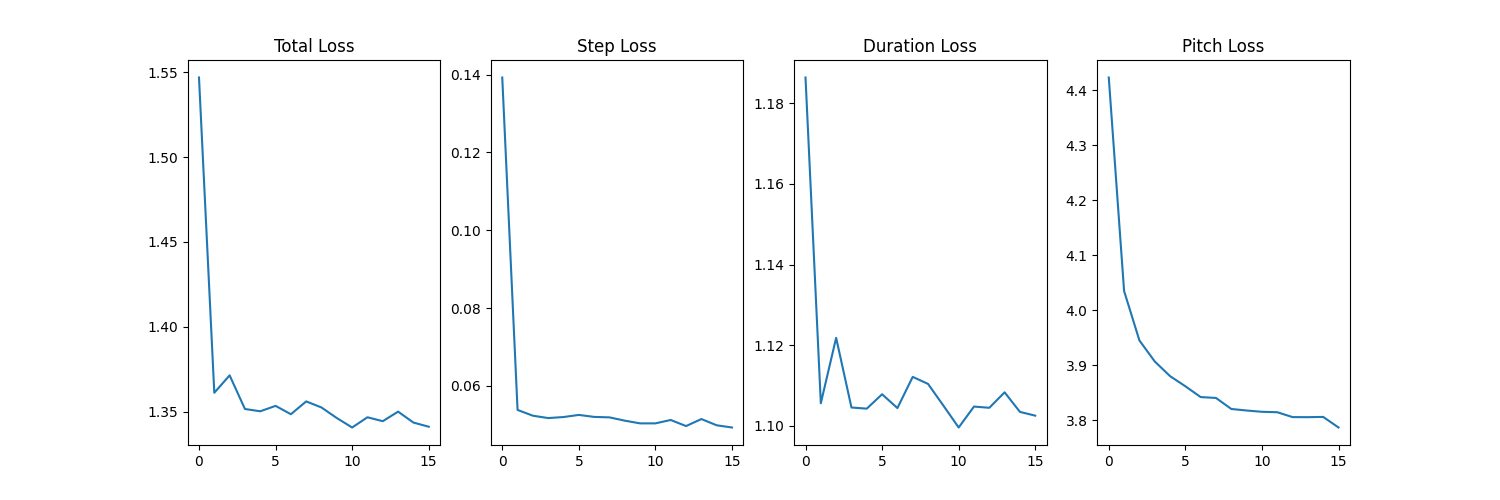
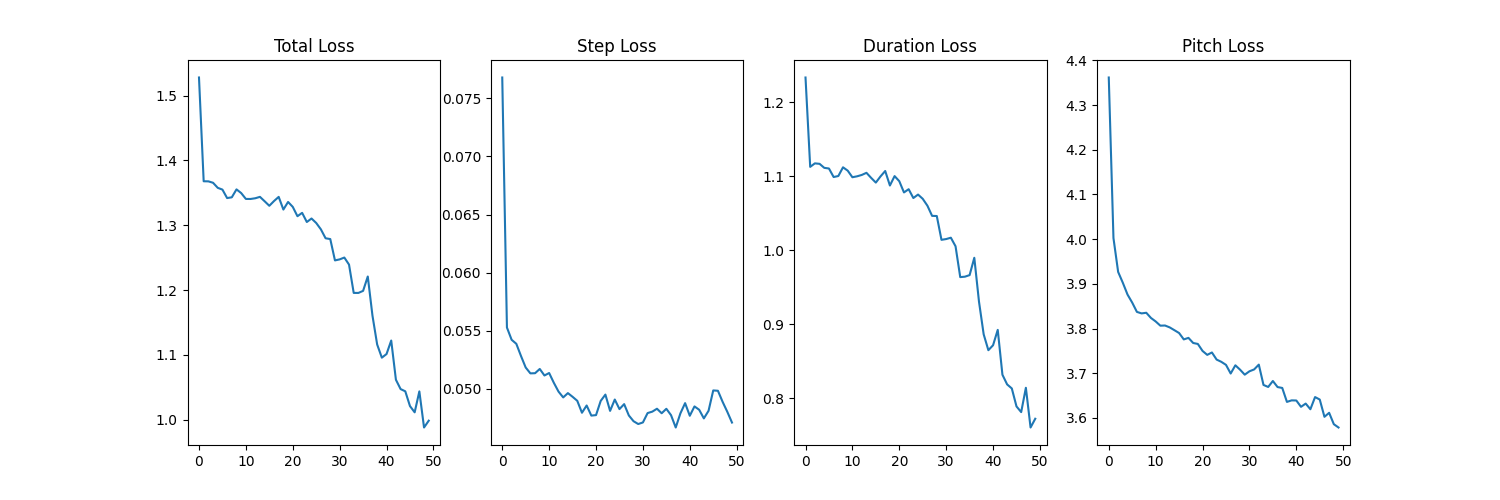
Many changes

diff --git a/main.py b/main.py
@@ -1,7 +1,3 @@
-# This is a sample Python script.
-
-# Press Shift+F10 to execute it or replace it with your code.
-# Press Double Shift to search everywhere for classes, files, tool windows, actions, and settings.
 # See https://www.tensorflow.org/tutorials/audio/music_generation
 # Temperature https://www.tensorflow.org/text/tutorials/text_generation
 import pandas as pd
@@ -24,12 +20,20 @@ LOSS_WEIGHTS = {
     'duration': 1.0,  # 1.0
 }
 KEY_ORDER = ['pitch', 'step', 'duration']
+FILE_NAME = "{identifier}_{name}_{time}.{extension}"
 os.environ['TF_CPP_MIN_LOG_LEVEL'] = '2'
+POSITIVE_PRESSURE_STRENGTH = 15
+VOCAB_SIZE = 128
 
 
 def check_dataset_existence():
+    """
+    Checks if datasets exist. If not, dataset is downloaded.
+    :return:
+    """
     maestro = pathlib.Path('data/maestro-v2.0.0')
     if not maestro.exists():
+        print(f"Downloading {maestro}...")
         tf.keras.utils.get_file(
             'maestro-v2.0.0-midi.zip',
             origin='https://storage.googleapis.com/magentadata/datasets/maestro/v2.0.0/maestro-v2.0.0-midi.zip',
@@ -61,12 +65,20 @@ def get_ym2413_file_names_by_emotion(emotion, toptag=True):  # ONLY FOR YM2413 D
     return file_names
 
 
-def notes_to_midi(
+def notes_write_to_midi(
         notes: pd.DataFrame,
         out_file: str,
         instrument_name: str,
         velocity: int = 100,  # note loudness; currently ignored during training. See 
 ) -> pretty_midi.PrettyMIDI:
+    """
+    Converts notes to midi file out_file.
+    :param notes: notes to write
+    :param out_file: file to write to
+    :param instrument_name: instrument being used
+    :param velocity: velocity of every note (all notes have the same velocity as velocity is currently not trained)
+    :return:
+    """
     pm = pretty_midi.PrettyMIDI()
     instrument = pretty_midi.Instrument(
         program=pretty_midi.instrument_name_to_program(
@@ -87,53 +99,67 @@ def notes_to_midi(
 
     pm.instruments.append(instrument)
     pm.write(out_file)
-    return pm
-
+    
 
 def create_sequences(
         dataset: tf.data.Dataset,
         seq_length: int,
-        vocab_size=128,
 ) -> tf.data.Dataset:
-    seq_length = seq_length + 1  # for labels
-
-    # See https://www.tensorflow.org/api_docs/python/tf/data/Dataset#window
-    # creates windows of seq_length where the first element is the second element in the element before
+    """
+    Creates a number of 1 shifted sequences where the "last element" becomes the label. For example:
+    0 1 2 [3] | 4 5
+    1 2 3 [4] | 5
+    2 3 4 [5]
+    That way we can predict a value based on the sequence and see if we hit the last element later.
+    For more information see: See https://www.tensorflow.org/api_docs/python/tf/data/Dataset#window
+    :param dataset: note data
+    :param seq_length: length of the sequence
+    :return:
+    """
+    seq_length = seq_length + 1  # give space for labels
     windows = dataset.window(seq_length, shift=1, stride=1,
                              drop_remainder=True)  # first element of a line is k*shift; following elem is +stride
-
-    # `flat_map` flattens the" dataset of datasets" into batches of tensors
-    flatten = lambda x: x.batch(seq_length, drop_remainder=True)
-    sequences = windows.flat_map(flatten)  # now we have sequences starting with one less the further you go
-
-    # Normalize note pitch
-    def scale_pitch(x):
-        x = x / [vocab_size, 1.0, 1.0]  # divide pitch by vocab size
-        return x
+    sequences = windows.flat_map(lambda x: x.batch(seq_length, drop_remainder=True))  # batch windows
 
     # Split the labels
     def split_labels(sequences):
+        """
+        Split sequences into pitch-normalized note sequence and labels
+        :param sequences: sequence to split
+        :return: tuple (sequence, label)
+        """
         inputs = sequences[:-1]  # take everything but last element of a sequence as input
         labels_dense = sequences[-1]  # take last element of a sequence as label
         labels = {key: labels_dense[i] for i, key in enumerate(KEY_ORDER)}
-        return scale_pitch(inputs), labels
+        return inputs / [VOCAB_SIZE, 1.0, 1.0], labels
 
     return sequences.map(split_labels, num_parallel_calls=tf.data.AUTOTUNE)
 
 
 def mse_with_positive_pressure(y_true: tf.Tensor, y_pred: tf.Tensor):
+    """
+    Just like mse, but the absolute of negative numbers times constant POSITIVE_PRESSURE_STRENGTH
+    is added before calculating the mean. This discourages learning negative values.
+    :param y_true:
+    :param y_pred:
+    :return:
+    """
     mse = (y_true - y_pred) ** 2
-    positive_pressure_strength = 15
-    positive_pressure = positive_pressure_strength * tf.maximum(-y_pred, 0.0)
-    # it's called reduce because it reduces multiple values to one by applying mean
-    return tf.reduce_mean(mse + positive_pressure)
+    positive_pressure = POSITIVE_PRESSURE_STRENGTH * tf.maximum(-y_pred, 0.0)
+    return tf.reduce_mean(mse + positive_pressure)  # reduce to single value by using mean
 
 
 def predict_next_note(
         notes: np.ndarray,
         keras_model: tf.keras.Model,
         temperature: float = 1.0) -> (int, float, float):
-    """Generates a note IDs using a trained sequence model."""
+    """
+    Predicts a single note given a sequence of notes.
+    :param notes: sequence of notes
+    :param keras_model: model to create notes from
+    :param temperature: randomness factor for pitch selection
+    :return: a note (pitch, step, duration)
+    """
 
     if temperature <= 0:
         raise ValueError("Temperature must be >0!")
@@ -152,7 +178,7 @@ def predict_next_note(
     duration = tf.squeeze(duration, axis=-1)
     step = tf.squeeze(step, axis=-1)
 
-    # `step` and `duration` values should be non-negative
+    # `step` and `duration` values should be >0
     if step < 0:
         print(f"Step <0 during prediction!")
     step = tf.maximum(0, step)
@@ -163,12 +189,35 @@ def predict_next_note(
     return int(pitch), float(step), float(duration)
 
 
-def generate_notes(model, input_notes, instrument_name, temperature=2.0, num_predictions=240, file_name=None):
-    # Generate Notes
+def generate_notes_from_file(model, base_file, seq_length=25):
+    """
 
-    # The initial sequence of notes; pitch is normalized similar to training sequences
+    :param model:
+    :param base_file:
+    :param seq_length:
+    :return:
+    """
+    print("Base File: " + base_file)
+    raw_notes = midi_to_notes(base_file)
+    pm = pretty_midi.PrettyMIDI(base_file)
+    instrument = pm.instruments[0]
+    instrument_name = pretty_midi.program_to_instrument_name(instrument.program)
+    sample_notes = np.stack([raw_notes[key] for key in KEY_ORDER], axis=1)
+    return instrument_name, generate_notes(model=model,
+                                           input_notes=(sample_notes[:seq_length] / np.array([VOCAB_SIZE, 1, 1])))
 
-    for x in range(1):
+
+def generate_notes(model, input_notes, instrument_name, temperature=2.0, num_predictions=240):
+    """
+    Given a trained model, sequence of input_notes and an instrument name, a sequence of notes is generated.
+    :param model: trained model
+    :param input_notes: sequence of notes [(pitch, step, duration), ...]
+    :param temperature: randomness factor for pitch selection
+    :param num_predictions: number of notes to predict for returned generated note sequence.
+    :param file_name: name of file to save notes at
+    :return: sequence of generated notes
+    """
+    for x in range(1):  # currently one file is written
         generated_notes = []
         prev_start = 0
         for _ in range(num_predictions):
@@ -183,18 +232,23 @@ def generate_notes(model, input_notes, instrument_name, temperature=2.0, num_pre
 
         generated_notes = pd.DataFrame(
             generated_notes, columns=(*KEY_ORDER, 'start', 'end'))
-
-        example_file = f"{identifier}_example_{datetime.datetime.now().strftime('%H:%M:%S')}_{x}.midi"
-        example_pm = notes_to_midi(
-            generated_notes, out_file=example_file, instrument_name=instrument_name)
-        example_pm.write(example_file)
-
-        plot_notes(generated_notes)
-        plot_distributions(generated_notes)
+    return generated_notes
 
 
 def train(identifier, filenames, seq_length=25, learning_rate=0.005, epochs=25, loss_weights=LOSS_WEIGHTS,
           num_files=15, model=None):
+    """
+    Trains and returns a model on files filenames
+    :param identifier: identifier for saved files
+    :param filenames: names of files to use for training
+    :param seq_length: length of sequences to learn on. The larger, the more notes are looked at when predicting
+    :param learning_rate: how fast to learn
+    :param epochs: how often to improve the loss function
+    :param loss_weights: how input variables are weighted
+    :param num_files: how many files to take into account of those given
+    :param model: if defined, no new model will be trained, but training will continue on the old model
+    :return:
+    """
     print("Selected Files: ", filenames[:num_files], "Len:", len(filenames[:num_files]))
 
     # pack all notes of the selected files together
@@ -210,8 +264,7 @@ def train(identifier, filenames, seq_length=25, learning_rate=0.005, epochs=25, 
     train_notes = np.stack([all_notes[key] for key in KEY_ORDER], axis=1)  # turn array into key_order
 
     notes_ds = tf.data.Dataset.from_tensor_slices(train_notes)  # just another data format
-    vocab_size = 128  # 128 is maximum pitch range for pretty_midi
-    seq_ds = create_sequences(notes_ds, seq_length, vocab_size)
+    seq_ds = create_sequences(notes_ds, seq_length, VOCAB_SIZE)
     for seq, target in seq_ds.take(1):
         print('sequence shape:', seq.shape)
         print('sequence elements (first 10):', seq[0: 10])
@@ -282,17 +335,6 @@ def train(identifier, filenames, seq_length=25, learning_rate=0.005, epochs=25, 
     plot_loss(history)
 
     model.save(f"{identifier}_{datetime.datetime.now().strftime('%H:%M:%S')}_.model")
-
-    base_file = filenames[0]
-    print("Base File: " + base_file)
-    raw_notes = midi_to_notes(base_file)
-    pm = pretty_midi.PrettyMIDI(base_file)
-    instrument = pm.instruments[0]
-    instrument_name = pretty_midi.program_to_instrument_name(instrument.program)
-    sample_notes = np.stack([raw_notes[key] for key in KEY_ORDER], axis=1)
-    generate_notes(model=model,
-                   input_notes=(sample_notes[:seq_length] / np.array([vocab_size, 1, 1])),
-                   instrument_name=instrument_name)
     return model
 
 
@@ -301,14 +343,23 @@ if __name__ == '__main__':
     seed = 42
     tf.random.set_seed(seed)
     np.random.seed(seed)
-
     filenames = []
     # filenames = glob.glob(str(maestro / '**/*.mid*'))
     # filenames = get_music_by_emotion("tense")
+    seq_length = 25
     for identifier in ["Q3"]:  # , "Q2", "Q3", "Q4"]:
         filenames += glob.glob(f"data/EMOPIA_1.0/midis/{identifier}*")
         # do_stuff()
-        first_model = train(identifier, filenames, epochs=50)
+        first_model = train(identifier, filenames, epochs=50, seq_length=seq_length)
+        instrument_name, generated_notes = generate_notes_from_file(model=first_model, base_file=filenames[0],
+                                                                    seq_length=seq_length)
+        midi_file = FILE_NAME.format(identifier, "example", datetime.datetime.now().strftime('%H:%M:%S'), "midi")
+        notes_write_to_midi(
+            generated_notes, out_file=midi_file, instrument_name=instrument_name)
+
+        plot_notes(generated_notes, file_name=f"{identifier}_generated_notes")
+        plot_distributions(generated_notes)
+
         # filenames = glob.glob(str(maestro / '**/*.mid*'))
         # second_model = train(identifier, filenames[:2])
 

diff --git a/analyze.py b/analyze.py
@@ -4,6 +4,7 @@ import collections
 import numpy as np
 from matplotlib import pyplot as plt
 from typing import Optional
+import seaborn as sns
 
 
 def midi_to_notes(midi_file: str) -> pd.DataFrame:
@@ -59,7 +60,7 @@ def analyze(file):
     plot_distributions(raw_notes)
 
 
-def plot_distributions(notes: pd.DataFrame, drop_percentile=2.5, show=False):
+def plot_distributions(notes: pd.DataFrame, drop_percentile=2.5, file_name=None):
     # See https://www.tensorflow.org/tutorials/audio/music_generation#extract_notes
     plt.figure(figsize=[15, 5])
     plt.subplot(1, 3, 1)
@@ -72,13 +73,9 @@ def plot_distributions(notes: pd.DataFrame, drop_percentile=2.5, show=False):
     plt.subplot(1, 3, 3)
     max_duration = np.percentile(notes['duration'], 100 - drop_percentile)
     sns.histplot(notes, x="duration", bins=np.linspace(0, max_duration, 21))
-    if show:
-        plt.show()
-    else:
-        plt.savefig("Plot Distributions")
 
 
-def plot_notes(notes: pd.DataFrame, count: Optional[int] = None, show=False):
+def plot_notes(notes: pd.DataFrame, count: Optional[int] = None, file_name=None):
     # See https://www.tensorflow.org/tutorials/audio/music_generation#extract_notes
     if count:
         title = f'First {count} notes'
@@ -93,13 +90,13 @@ def plot_notes(notes: pd.DataFrame, count: Optional[int] = None, show=False):
     plt.xlabel('Time [s]')
     plt.ylabel('Pitch')
     _ = plt.title(title)
-    if show:
-        plt.show()
+    if file_name:
+        plt.savefig(file_name)
     else:
-        plt.savefig()
+        plt.show()
 
 
-def plot_loss(history, show=False):
+def plot_loss(history, file_name=None):
     plt.figure(figsize=[15, 5])
     plt.subplot(1, 4, 1)
     plt.title("Total Loss")
@@ -116,8 +113,7 @@ def plot_loss(history, show=False):
     plt.subplot(1, 4, 4)
     plt.title("Pitch Loss")
     plt.plot(history.epoch, history.history['pitch_loss'], label='pitch loss')
-
-    if show:
-        plt.show()
+    if file_name:
+        plt.savefig(file_name)
     else:
-        plt.savefig("example")
+        plt.show()
